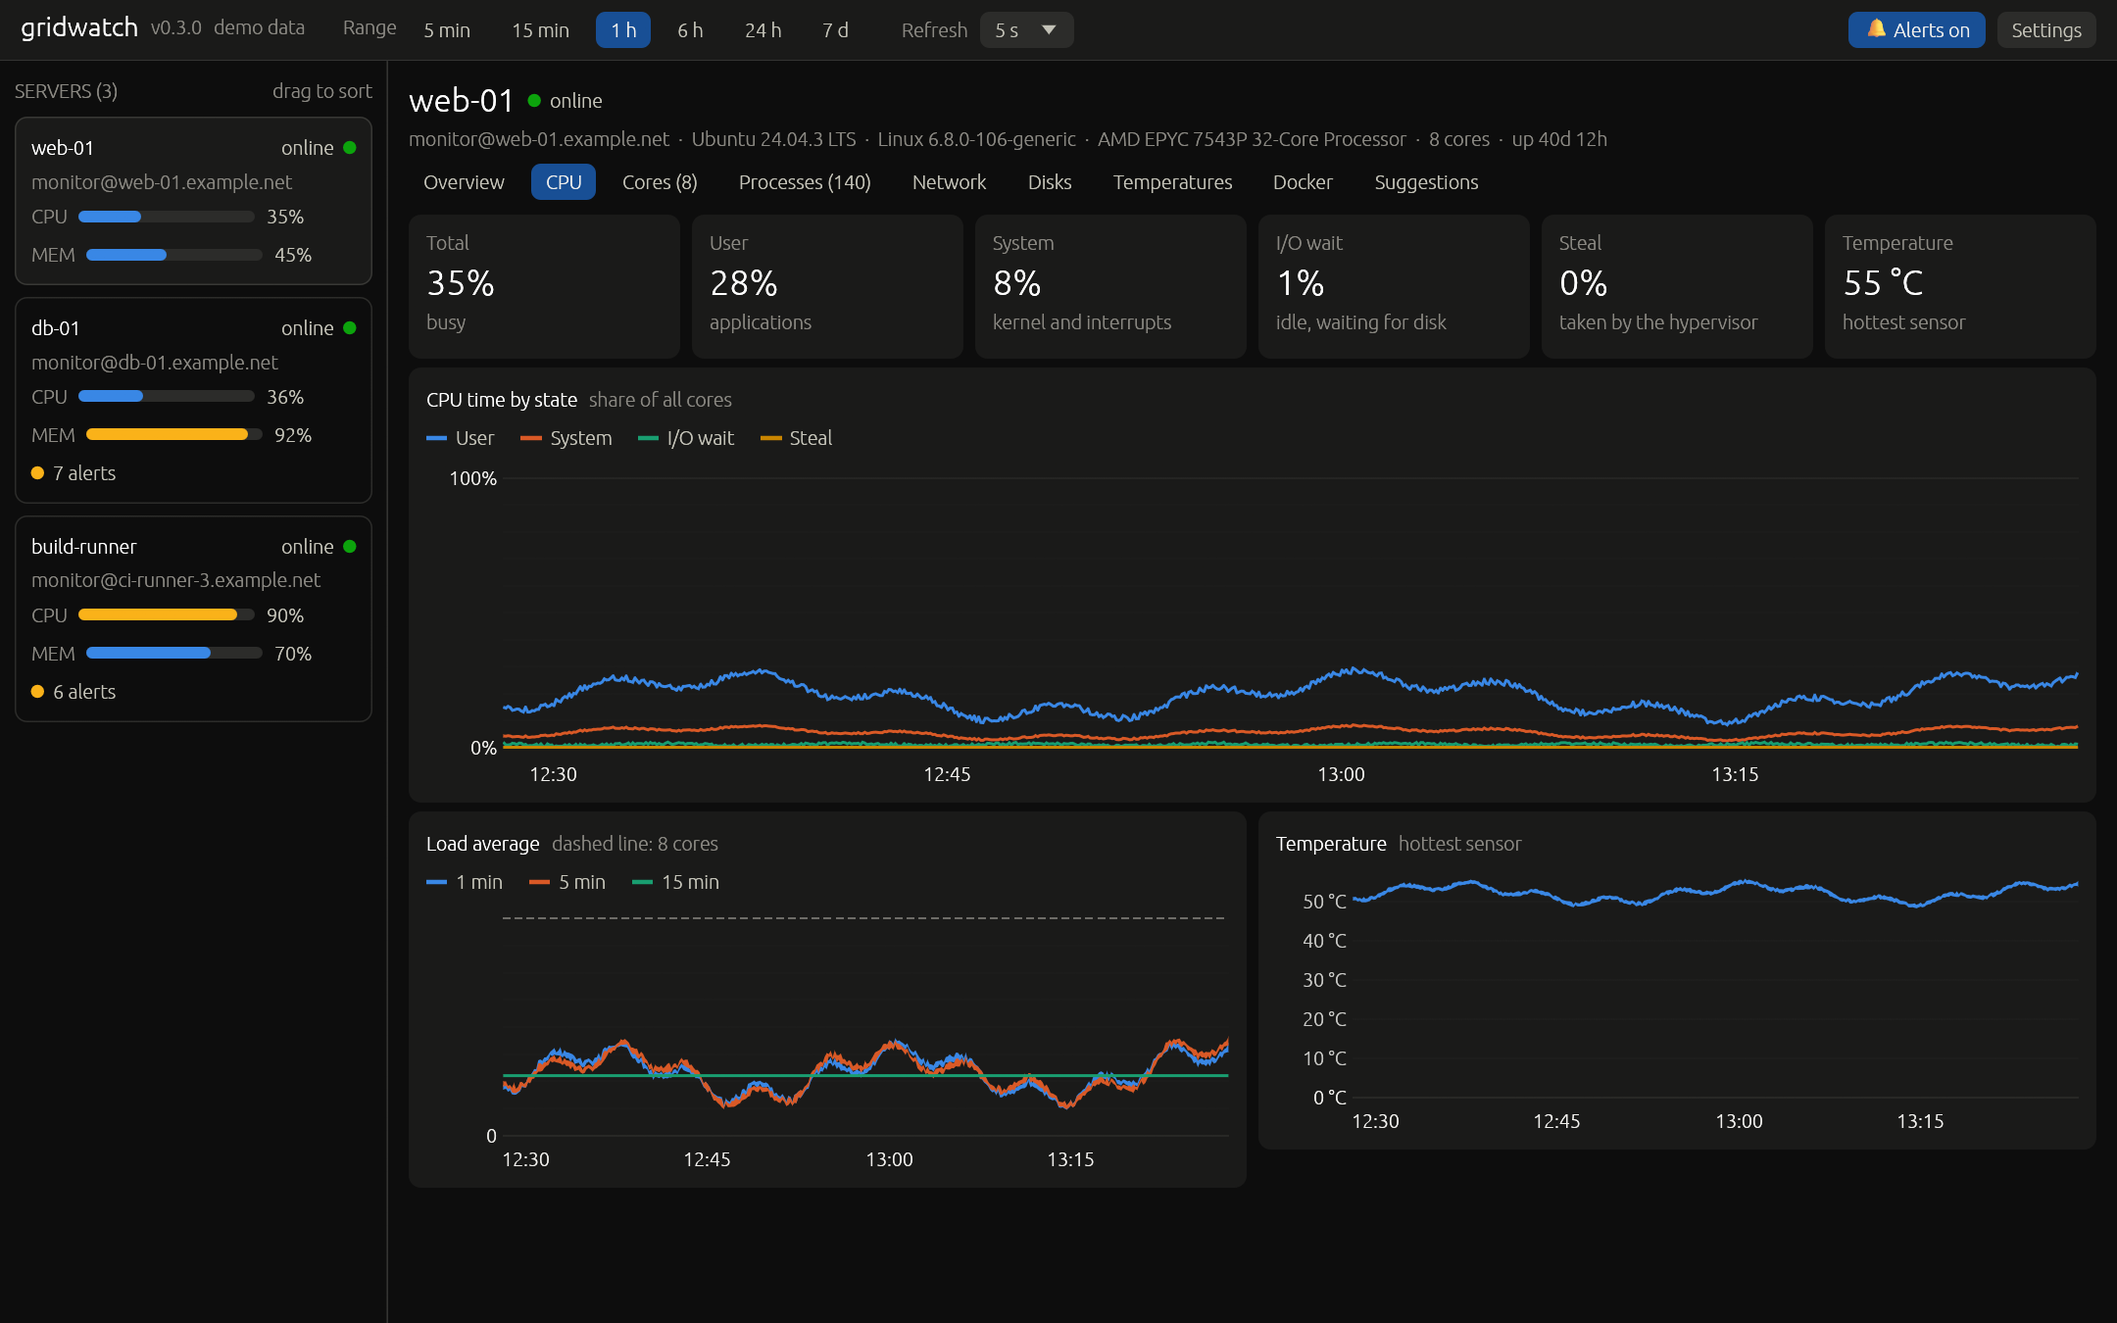
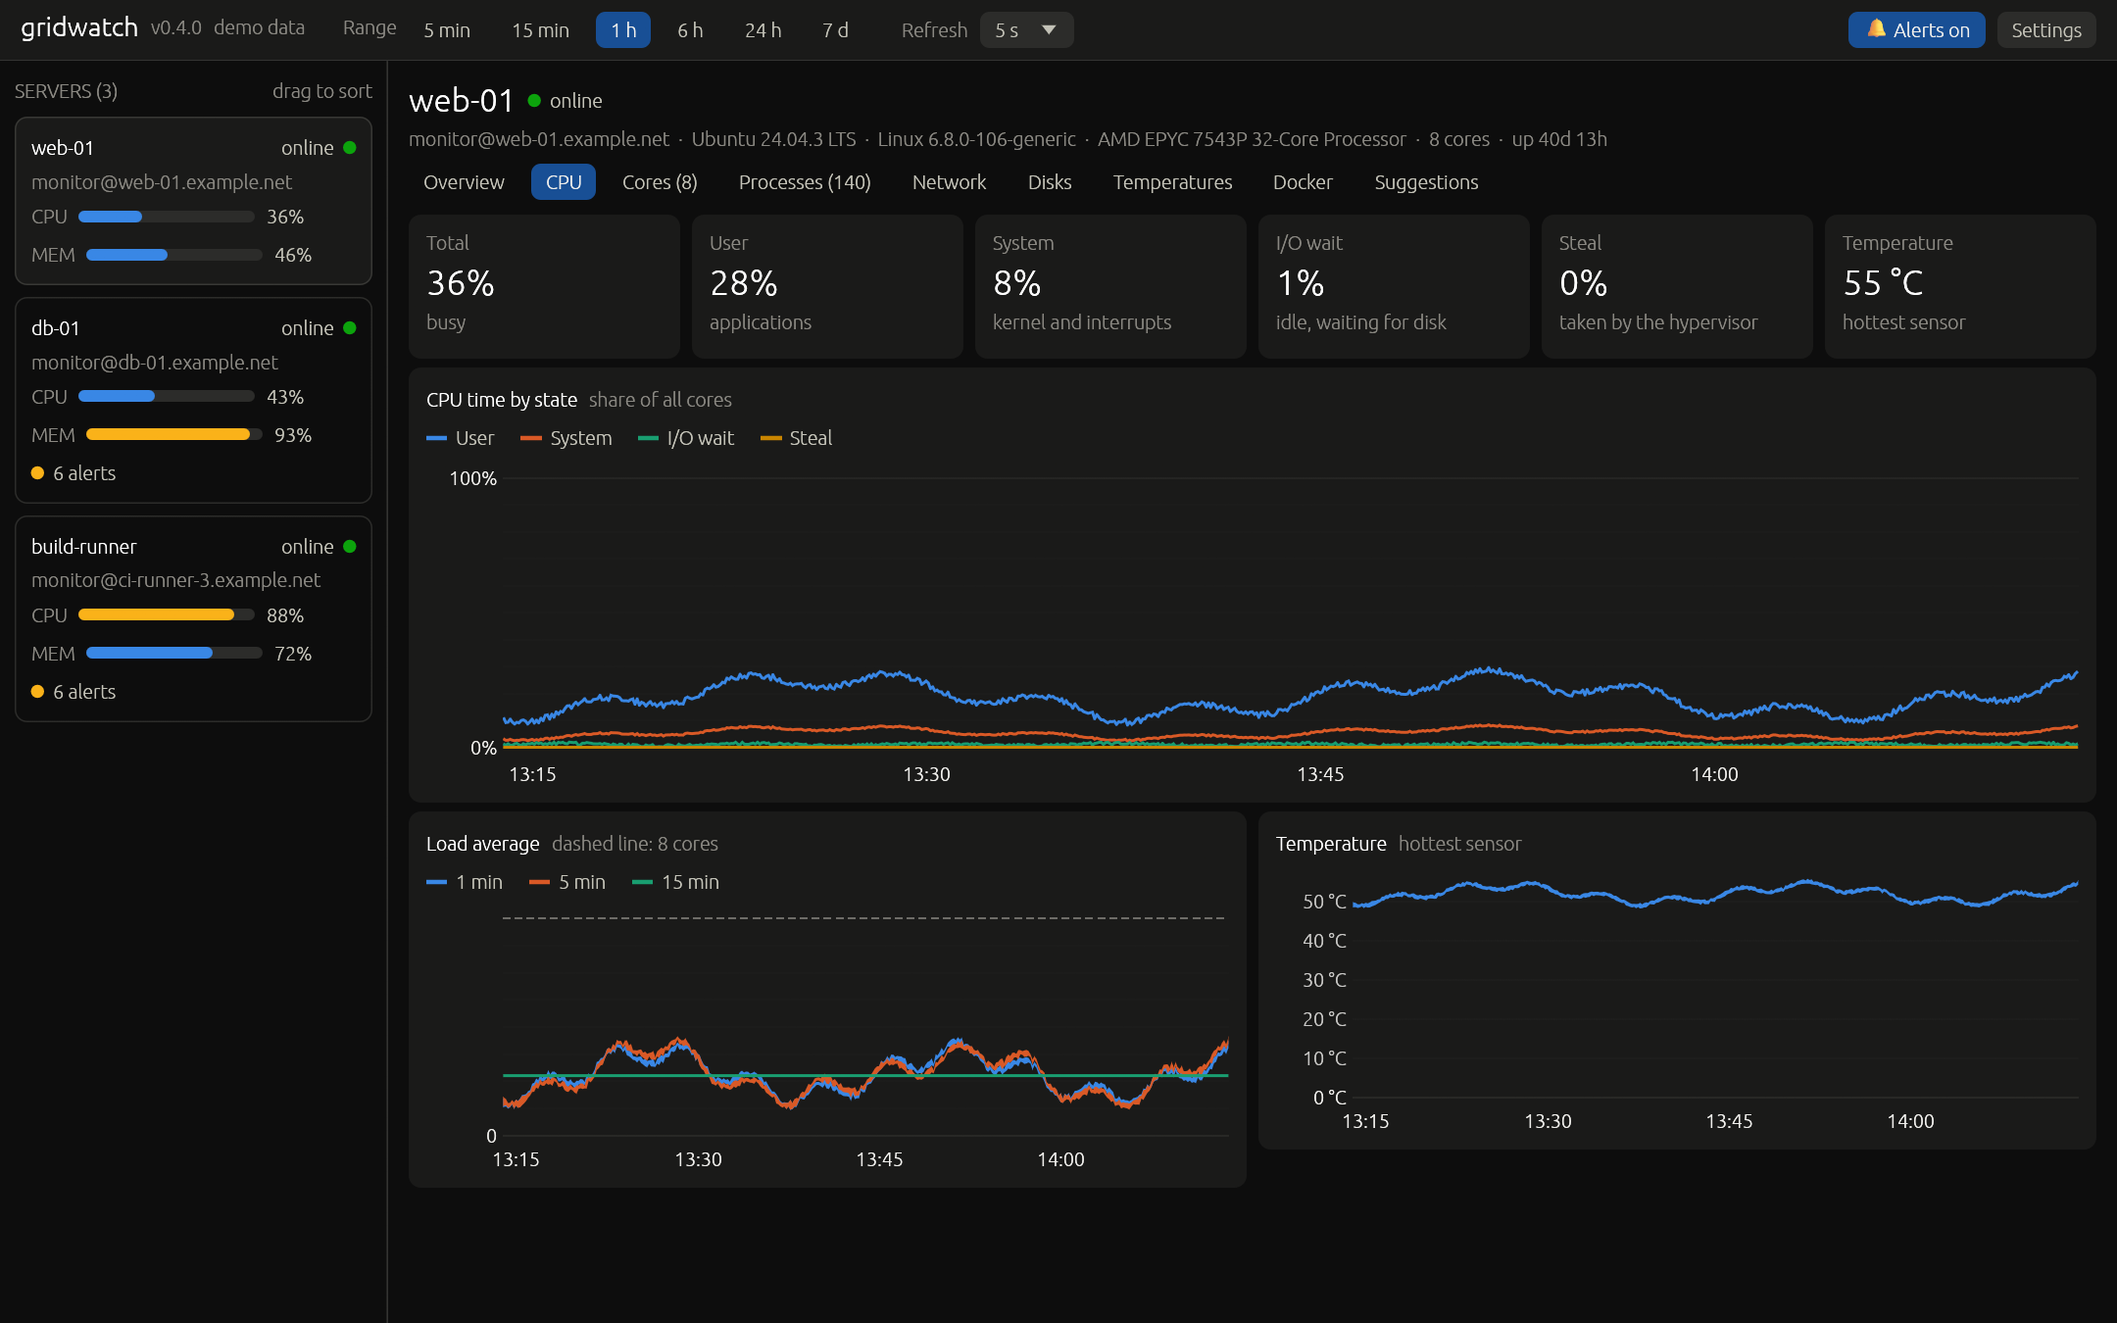
Make tables sortable and move the GPU tab before CPU (0.4.0)
Click a column title in the process, container, interface, disk,
filesystem, sensor and GPU tables to sort by it; a second click
reverses the order, a third returns to the default. This replaces the
CPU / Memory switch above the process list.

diff --git a/src/app.rs b/src/app.rs
@@ -94,7 +94,6 @@ pub struct App {
     confirm_remove: bool,
     secret_input: String,
     proc_filter: String,
-    proc_by_memory: bool,
     last_prune: Instant,
     screenshots: Option<Screenshots>,
 }
@@ -170,7 +169,6 @@ impl App {
             confirm_remove: false,
             secret_input: String::new(),
             proc_filter: String::new(),
-            proc_by_memory: false,
             last_prune: Instant::now(),
             screenshots,
             config,
@@ -735,13 +733,13 @@ Click to switch on or off.");
                 ui.horizontal(|ui| {
                     for (tab, label) in [
                         (Tab::Overview, "Overview".to_string()),
+                        (Tab::Gpu, if sample.gpus.len() > 1 { format!("GPU ({})", sample.gpus.len()) } else { "GPU".to_string() }),
                         (Tab::Cpu, "CPU".to_string()),
                         (Tab::Cores, format!("Cores ({})", sample.cores.len())),
                         (Tab::Processes, format!("Processes ({})", sample.proc_count)),
                         (Tab::Network, "Network".to_string()),
                         (Tab::Disks, "Disks".to_string()),
                         (Tab::Temps, "Temperatures".to_string()),
-                        (Tab::Gpu, if sample.gpus.len() > 1 { format!("GPU ({})", sample.gpus.len()) } else { "GPU".to_string() }),
                         (Tab::Docker, "Docker".to_string()),
                         (Tab::Suggestions, if alerts > 0 { format!("Suggestions ({alerts})") } else { "Suggestions".to_string() }),
                     ] {
@@ -757,13 +755,13 @@ Click to switch on or off.");
                     self.tab = Tab::Overview;
                 }
                 let tab = self.tab;
-                let (filter, by_memory) = (&mut self.proc_filter, &mut self.proc_by_memory);
+                let filter = &mut self.proc_filter;
                 let slots = &mut server.color_slots;
                 ScrollArea::vertical().auto_shrink([false, false]).show(ui, |ui| match tab {
                     Tab::Overview => overview_tab(ui, &state, sample, range),
                     Tab::Cpu => cpu_tab(ui, &state, sample, range),
                     Tab::Cores => cores_tab(ui, &state, sample, range),
-                    Tab::Processes => processes_tab(ui, sample, filter, by_memory),
+                    Tab::Processes => processes_tab(ui, sample, filter),
                     Tab::Network => network_tab(ui, &state, sample, range),
                     Tab::Disks => disks_tab(ui, &state, sample, range),
                     Tab::Temps => temps_tab(ui, &state, sample, range),
@@ -1136,7 +1134,19 @@ fn filesystems_card(ui: &mut Ui, s: &Sample) {
     w::card(ui, |ui| {
         w::section(ui, "Filesystems", "");
         egui::Grid::new("disks").num_columns(5).spacing([24.0, 8.0]).show(ui, |ui| {
-            for d in &s.disks {
+            let mut rows: Vec<&Disk> = s.disks.iter().collect();
+            if let Some((column, descending)) = w::sort_header(ui, "filesystems", &["Mount", "Type", "", "Used", "Size"], &[0, 1]) {
+                rows.sort_by(|a, b| {
+                    let order = match column {
+                        0 => a.mount.cmp(&b.mount),
+                        1 => a.fstype.cmp(&b.fstype),
+                        3 => a.pct().total_cmp(&b.pct()),
+                        _ => a.total.cmp(&b.total),
+                    };
+                    w::directed(order, descending)
+                });
+            }
+            for d in rows {
                 ui.label(&d.mount);
                 ui.label(w::muted(&d.fstype));
                 w::meter(ui, d.pct() / 100.0, 260.0);
@@ -1273,12 +1283,9 @@ fn cores_tab(ui: &mut Ui, state: &ServerState, s: &Sample, range: (i64, i64)) {
     }
 }
 
-fn processes_tab(ui: &mut Ui, s: &Sample, filter: &mut String, by_memory: &mut bool) {
+fn processes_tab(ui: &mut Ui, s: &Sample, filter: &mut String) {
     ui.horizontal(|ui| {
         ui.add(egui::TextEdit::singleline(filter).hint_text("Filter by command, user or PID").desired_width(280.0));
-        ui.label(w::muted("Sort by"));
-        ui.selectable_value(by_memory, false, "CPU");
-        ui.selectable_value(by_memory, true, "Memory");
         ui.with_layout(Layout::right_to_left(Align::Center), |ui| {
             if s.zombies > 0 {
                 w::status(ui, w::WARNING, &format!("{} zombies", s.zombies));
@@ -1297,17 +1304,25 @@ fn processes_tab(ui: &mut Ui, s: &Sample, filter: &mut String, by_memory: &mut b
                 || p.pid.to_string() == needle
         })
         .collect();
-    if *by_memory {
-        procs.sort_by(|a, b| b.rss.cmp(&a.rss));
-    } else {
-        procs.sort_by(|a, b| b.cpu.total_cmp(&a.cpu).then(b.rss.cmp(&a.rss)));
-    }
+    // Busiest first unless a column was clicked.
+    procs.sort_by(|a, b| b.cpu.total_cmp(&a.cpu).then(b.rss.cmp(&a.rss)));
     w::card(ui, |ui| {
         egui::Grid::new("procs").num_columns(8).striped(true).spacing([18.0, 7.0]).show(ui, |ui| {
-            for head in ["PID", "User", "CPU", "", "Memory", "RSS", "Running", "Command"] {
-                ui.label(w::muted(head));
+            let heads = ["PID", "User", "CPU", "", "Memory", "RSS", "Running", "Command"];
+            if let Some((column, descending)) = w::sort_header(ui, "procs", &heads, &[1, 7]) {
+                procs.sort_by(|a, b| {
+                    let order = match column {
+                        0 => a.pid.cmp(&b.pid),
+                        1 => a.user.cmp(&b.user),
+                        2 => a.cpu.total_cmp(&b.cpu),
+                        4 => a.mem_pct.total_cmp(&b.mem_pct),
+                        5 => a.rss.cmp(&b.rss),
+                        6 => a.elapsed.cmp(&b.elapsed),
+                        _ => a.cmd.cmp(&b.cmd),
+                    };
+                    w::directed(order, descending)
+                });
             }
-            ui.end_row();
             for p in procs.iter().take(80) {
                 ui.label(RichText::new(p.pid.to_string()).monospace());
                 ui.label(&p.user);
@@ -1387,13 +1402,23 @@ fn network_tab(ui: &mut Ui, state: &ServerState, s: &Sample, range: (i64, i64)) 
         }
         let top = s.net.iter().map(|n| n.rx_bps.max(n.tx_bps)).fold(1.0, f64::max);
         egui::Grid::new("interfaces").num_columns(8).striped(true).spacing([24.0, 8.0]).show(ui, |ui| {
-            for head in ["Interface", "Received", "", "Sent", "", "Total received", "Total sent", "Kind"] {
-                ui.label(w::muted(head));
-            }
-            ui.end_row();
             // Real ports on top, then whatever carried the most.
             let mut rows: Vec<&NetIface> = s.net.iter().collect();
             rows.sort_by(|a, b| b.physical.cmp(&a.physical).then((b.rx_total + b.tx_total).cmp(&(a.rx_total + a.tx_total))));
+            let heads = ["Interface", "Received", "", "Sent", "", "Total received", "Total sent", "Kind"];
+            if let Some((column, descending)) = w::sort_header(ui, "interfaces", &heads, &[0]) {
+                rows.sort_by(|a, b| {
+                    let order = match column {
+                        0 => a.name.cmp(&b.name),
+                        1 => a.rx_bps.total_cmp(&b.rx_bps),
+                        3 => a.tx_bps.total_cmp(&b.tx_bps),
+                        5 => a.rx_total.cmp(&b.rx_total),
+                        6 => a.tx_total.cmp(&b.tx_total),
+                        _ => a.physical.cmp(&b.physical),
+                    };
+                    w::directed(order, descending)
+                });
+            }
             for n in rows {
                 ui.label(RichText::new(&n.name).strong());
                 ui.label(fmt_rate(n.rx_bps));
@@ -1475,11 +1500,20 @@ fn disks_tab(ui: &mut Ui, state: &ServerState, s: &Sample, range: (i64, i64)) {
         let detailed = s.disk_io.iter().any(|d| d.util.is_some());
         let heads: &[&str] = if detailed { &["Disk", "Read", "Write", "Operations / s", "Busy", ""] } else { &["Disk", "Read", "Write"] };
         egui::Grid::new("disk-io").num_columns(heads.len()).striped(true).spacing([28.0, 8.0]).show(ui, |ui| {
-            for head in heads {
-                ui.label(w::muted(*head));
+            let mut rows: Vec<&DiskIo> = s.disk_io.iter().collect();
+            if let Some((column, descending)) = w::sort_header(ui, "disk-io", heads, &[0]) {
+                rows.sort_by(|a, b| {
+                    let order = match column {
+                        0 => a.name.cmp(&b.name),
+                        1 => a.read_bps.total_cmp(&b.read_bps),
+                        2 => a.write_bps.total_cmp(&b.write_bps),
+                        3 => a.iops.total_cmp(&b.iops),
+                        _ => a.util.unwrap_or(0.0).total_cmp(&b.util.unwrap_or(0.0)),
+                    };
+                    w::directed(order, descending)
+                });
             }
-            ui.end_row();
-            for d in &s.disk_io {
+            for d in rows {
                 ui.label(RichText::new(&d.name).strong());
                 ui.label(fmt_bytes_rate(d.read_bps));
                 ui.label(fmt_bytes_rate(d.write_bps));
@@ -1557,11 +1591,19 @@ fn temps_tab(ui: &mut Ui, state: &ServerState, s: &Sample, range: (i64, i64)) {
     w::card(ui, |ui| {
         w::section(ui, "All sensors", "");
         egui::Grid::new("sensors").num_columns(5).striped(true).spacing([28.0, 8.0]).show(ui, |ui| {
-            for head in ["Chip", "Reading", "Kind", "Temperature", ""] {
-                ui.label(w::muted(head));
+            let mut rows: Vec<&Sensor> = s.sensors.iter().collect();
+            if let Some((column, descending)) = w::sort_header(ui, "sensors", &["Chip", "Reading", "Kind", "Temperature", ""], &[0, 1, 2]) {
+                rows.sort_by(|a, b| {
+                    let order = match column {
+                        0 => a.chip.cmp(&b.chip),
+                        1 => a.label.cmp(&b.label),
+                        2 => a.kind().label().cmp(b.kind().label()),
+                        _ => a.temp.total_cmp(&b.temp),
+                    };
+                    w::directed(order, descending)
+                });
             }
-            ui.end_row();
-            for x in &s.sensors {
+            for x in rows {
                 let (warm, hot) = x.limits();
                 ui.label(RichText::new(&x.chip).strong());
                 ui.label(if x.label.is_empty() { "–" } else { x.label.as_str() });
@@ -1645,11 +1687,21 @@ fn gpu_tab(ui: &mut Ui, state: &ServerState, s: &Sample, range: (i64, i64)) {
 
     w::card(ui, |ui| {
         egui::Grid::new("gpus").num_columns(7).striped(true).spacing([28.0, 8.0]).show(ui, |ui| {
-            for head in ["#", "Name", "Load", "", "Memory", "Temperature", "Power"] {
-                ui.label(w::muted(head));
+            let mut rows: Vec<(usize, &Gpu)> = s.gpus.iter().enumerate().collect();
+            if let Some((column, descending)) = w::sort_header(ui, "gpus", &["#", "Name", "Load", "", "Memory", "Temperature", "Power"], &[0, 1]) {
+                rows.sort_by(|(i, a), (j, b)| {
+                    let order = match column {
+                        0 => i.cmp(j),
+                        1 => a.name.cmp(&b.name),
+                        2 => a.util.total_cmp(&b.util),
+                        4 => a.mem_used.cmp(&b.mem_used),
+                        5 => a.temp.unwrap_or(0.0).total_cmp(&b.temp.unwrap_or(0.0)),
+                        _ => a.power.unwrap_or(0.0).total_cmp(&b.power.unwrap_or(0.0)),
+                    };
+                    w::directed(order, descending)
+                });
             }
-            ui.end_row();
-            for (i, g) in s.gpus.iter().enumerate() {
+            for (i, g) in rows {
                 ui.label(i.to_string());
                 ui.label(RichText::new(&g.name).strong());
                 ui.label(format!("{:.0}%", g.util));
@@ -1773,11 +1825,24 @@ fn docker_tab(ui: &mut Ui, state: &ServerState, s: &Sample, range: (i64, i64), s
 fn container_table(ui: &mut Ui, rows: &[&Container], s: &Sample) {
     {
         egui::Grid::new("containers").num_columns(9).striped(true).spacing([18.0, 8.0]).show(ui, |ui| {
-            for head in ["State", "Name", "Image", "CPU", "Memory", "", "Net I/O", "PIDs", "Status"] {
-                ui.label(w::muted(head));
+            let mut rows = rows.to_vec();
+            let heads = ["State", "Name", "Image", "CPU", "Memory", "", "Net I/O", "PIDs", "Status"];
+            if let Some((column, descending)) = w::sort_header(ui, "containers", &heads, &[0, 1, 2, 6, 8]) {
+                rows.sort_by(|a, b| {
+                    let order = match column {
+                        0 => container_status(a).1.cmp(container_status(b).1),
+                        1 => a.name.cmp(&b.name),
+                        2 => a.image.cmp(&b.image),
+                        3 => a.cpu.total_cmp(&b.cpu),
+                        4 => a.mem_used.cmp(&b.mem_used),
+                        6 => a.net.cmp(&b.net),
+                        7 => a.pids.cmp(&b.pids),
+                        _ => a.status.cmp(&b.status),
+                    };
+                    w::directed(order, descending)
+                });
             }
-            ui.end_row();
-            for c in rows {
+            for c in &rows {
                 let (color, label) = container_status(c);
                 w::status(ui, color, label);
                 ui.label(RichText::new(&c.name).strong());

diff --git a/src/widgets.rs b/src/widgets.rs
@@ -57,6 +57,62 @@ pub fn muted(text: impl Into<String>) -> RichText {
     RichText::new(text).color(MUTED)
 }
 
+/// Header row of a grid; a click on a column title sorts the table by it.
+/// Returns the chosen (column, descending), or `None` while the table keeps its own order.
+/// The first click starts with the largest value (with A for the columns listed in `text`),
+/// the second reverses, the third returns to the table's own order.
+pub fn sort_header(ui: &mut Ui, table: &str, heads: &[&str], text: &[usize]) -> Option<(usize, bool)> {
+    let id = egui::Id::unique(("sort", table));
+    let mut chosen: Option<(usize, bool)> = ui.data(|d| d.get_temp(id));
+    for (column, head) in heads.iter().enumerate() {
+        if head.is_empty() {
+            ui.label("");
+            continue;
+        }
+        let first_descending = !text.contains(&column);
+        let title = match chosen {
+            // The trailing blanks leave room for the arrow that is painted below.
+            Some((c, _)) if c == column => RichText::new(format!("{head}    ")).color(TEXT),
+            _ => muted(*head),
+        };
+        let response = ui
+            .add(egui::Label::new(title).sense(Sense::click()))
+            .on_hover_cursor(egui::CursorIcon::PointingHand)
+            .on_hover_text("Click to sort");
+        if let Some((_, descending)) = chosen.filter(|c| c.0 == column) {
+            // Painted, because the built-in fonts have no reliable arrow glyph.
+            let center = egui::pos2(response.rect.right() - 5.0, response.rect.center().y);
+            let tip = if descending { 3.0 } else { -3.0 };
+            let points = vec![
+                egui::pos2(center.x - 4.0, center.y - tip),
+                egui::pos2(center.x + 4.0, center.y - tip),
+                egui::pos2(center.x, center.y + tip),
+            ];
+            ui.painter().add(egui::Shape::convex_polygon(points, TEXT, egui::Stroke::NONE));
+        }
+        if response.clicked() {
+            chosen = match chosen {
+                Some((c, descending)) if c == column && descending == first_descending => Some((column, !descending)),
+                Some((c, _)) if c == column => None,
+                _ => Some((column, first_descending)),
+            };
+            ui.data_mut(|d| match chosen {
+                Some(choice) => {
+                    d.insert_temp(id, choice);
+                }
+                None => d.remove::<(usize, bool)>(id),
+            });
+        }
+    }
+    ui.end_row();
+    chosen
+}
+
+/// Apply the direction chosen in a [`sort_header`].
+pub fn directed(order: std::cmp::Ordering, descending: bool) -> std::cmp::Ordering {
+    if descending { order.reverse() } else { order }
+}
+
 pub fn card<R>(ui: &mut Ui, add: impl FnOnce(&mut Ui) -> R) -> egui::InnerResponse<R> {
     Frame::new()
         .fill(SURFACE)

diff --git a/CHANGELOG.md b/CHANGELOG.md
@@ -4,6 +4,13 @@ The version is raised with every change that reaches users: the last number for 
 the middle number for a new feature. It is set in `Cargo.toml` and shown in the top bar
 and by `gridwatch --version`. A tag `v<version>` on GitHub builds and publishes the release.
 
+## 0.4.0
+
+- The GPU tab now comes right after the overview, before CPU.
+- **Sortable tables**: click a column title in the process, container, interface, disk, filesystem,
+  sensor and GPU tables to sort by it; a second click reverses, a third returns to the usual order.
+  This replaces the CPU / Memory switch above the process list.
+
 ## 0.3.0
 
 - **This computer** is listed as the first server: read through the Windows API on Windows,
